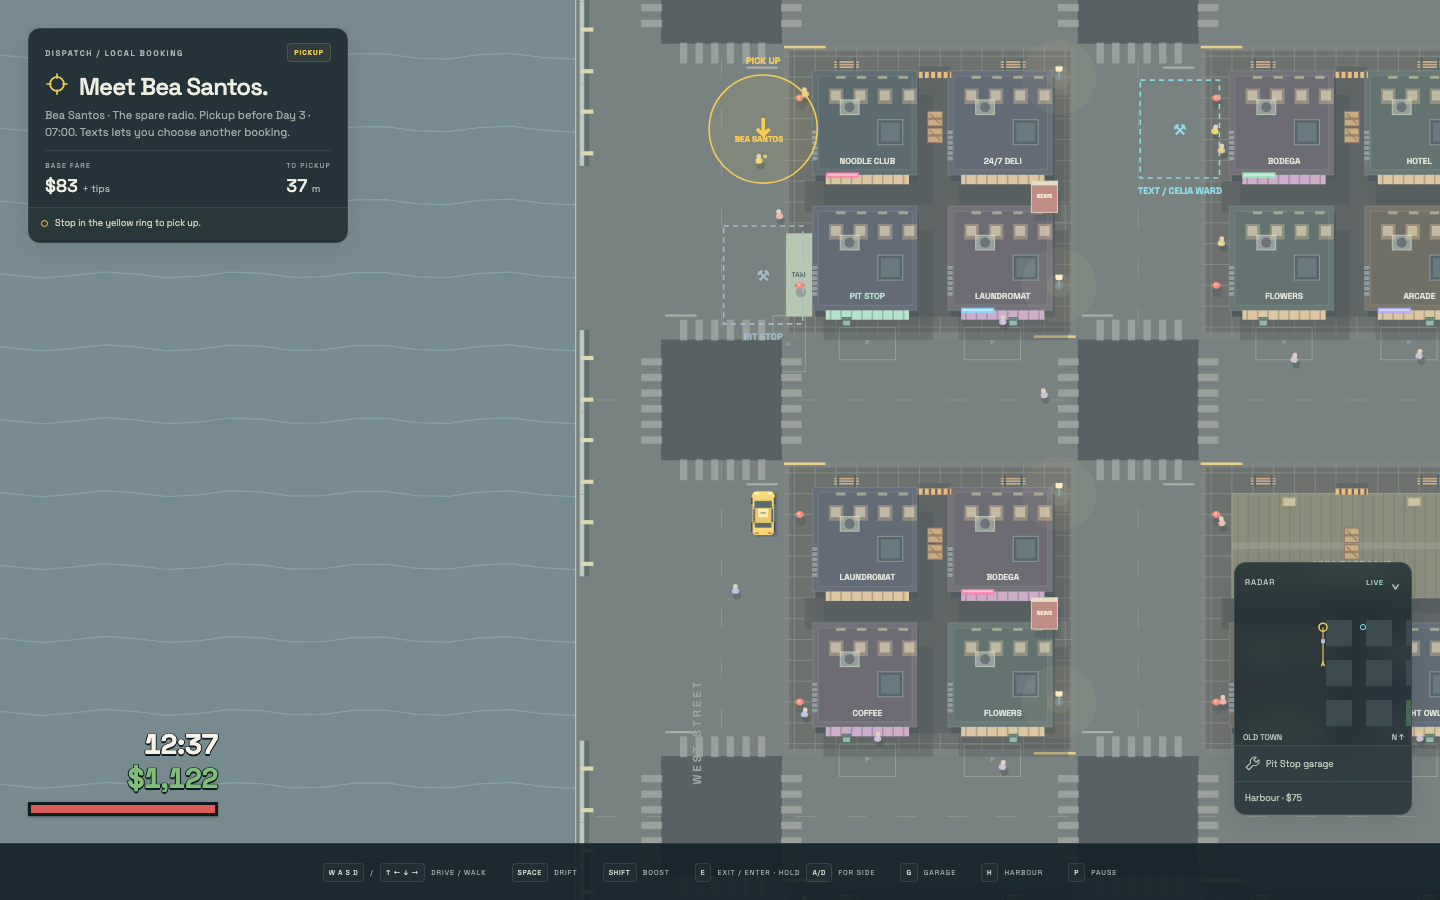
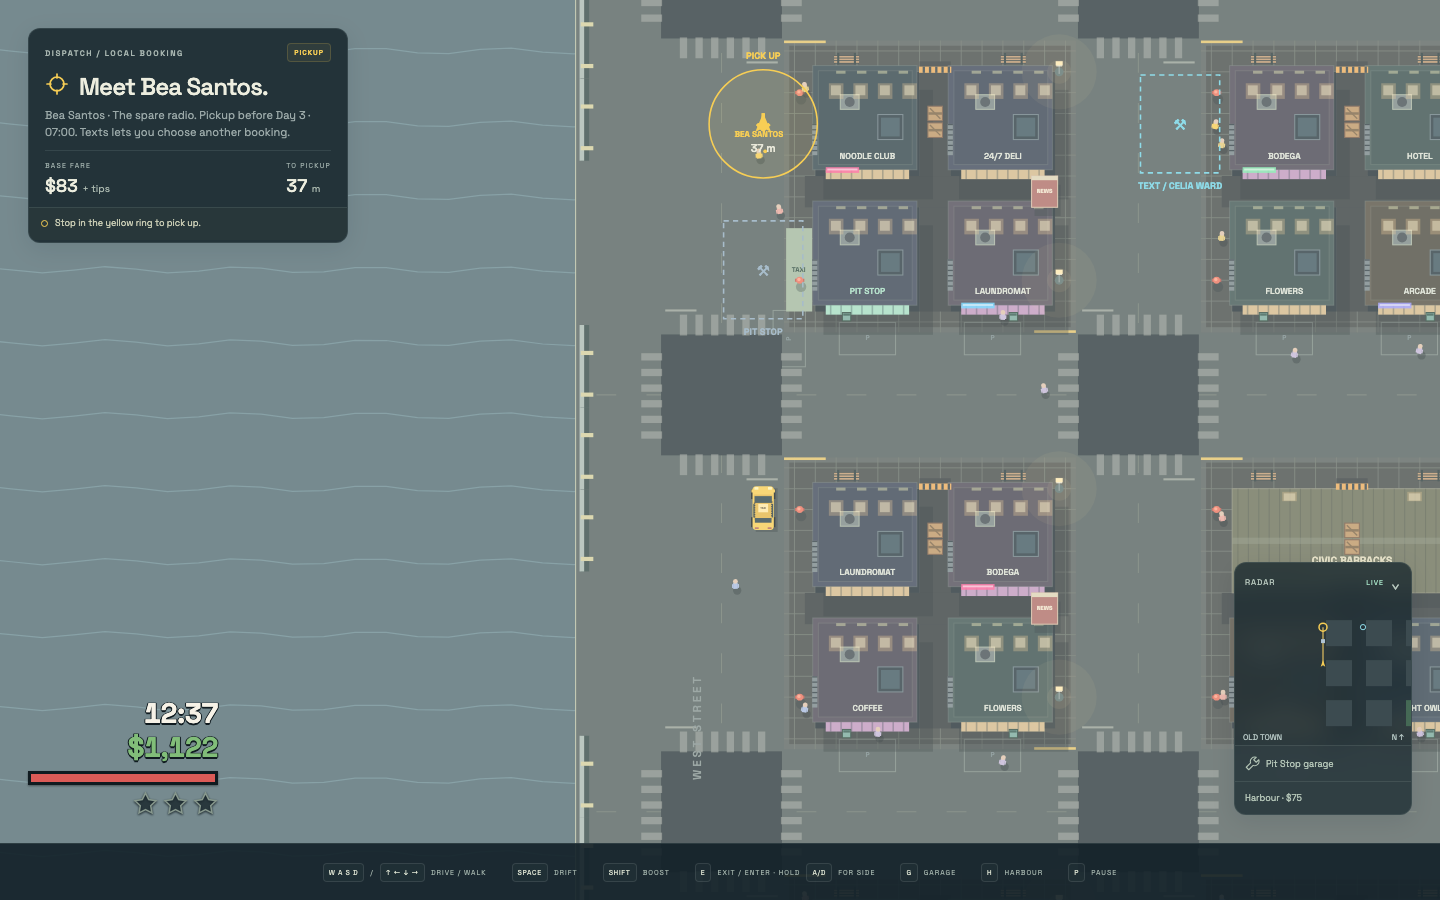
Show police attention as progressively filled HUD stars

diff --git a/src/player-hud.ts b/src/player-hud.ts
@@ -1,16 +1,32 @@
 import type { Game } from './game';
+import { wantedThresholds } from './rules';
+
+const starPath = 'M12 2 15.1 8.3 22 9.3 17 14.2 18.2 21 12 17.8 5.8 21 7 14.2 2 9.3 8.9 8.3Z';
+const starMarkup = wantedThresholds.map((_, index) => `<svg class="heat-star" viewBox="0 0 24 24" aria-hidden="true">
+  <defs><clipPath id="player-heat-clip-${index}"><rect x="2" y="0" width="0" height="24" /></clipPath></defs>
+  <path class="heat-star-empty" d="${starPath}" />
+  <path class="heat-star-fill" d="${starPath}" clip-path="url(#player-heat-clip-${index})" />
+</svg>`).join('');
 
 export const playerHudMarkup = `<section class="player-hud" aria-label="Player status">
   <time id="player-time" aria-label="Time of day">07:00</time>
   <strong id="player-cash" aria-label="Cash">$0</strong>
   <div id="player-health" class="player-health" role="meter" aria-label="Personal health" aria-valuemin="0" aria-valuemax="100" aria-valuenow="100"><i></i></div>
+  <div id="player-heat" class="player-heat" role="meter" aria-label="Police attention" aria-valuemin="0" aria-valuemax="100" aria-valuenow="0">${starMarkup}</div>
 </section>`;
 
-export function playerHudState(game: Pick<Game, 'dayNight' | 'save' | 'driverHealth'>) {
+export function playerHudState(game: Pick<Game, 'dayNight' | 'save' | 'driverHealth' | 'heat' | 'stars'>) {
+  const heat = Math.max(0, Math.min(100, game.heat));
   return {
     time: game.dayNight.snapshot().time,
     cash: `$${Math.floor(game.save.cash).toLocaleString('en-US')}`,
     health: Math.max(0, Math.min(100, game.driverHealth)),
+    heat,
+    stars: game.stars,
+    starFills: wantedThresholds.map((threshold, index) => {
+      const from = index === 0 ? 0 : wantedThresholds[index - 1];
+      return Math.max(0, Math.min(1, (heat - from) / (threshold - from)));
+    }),
   };
 }
 
@@ -20,6 +36,8 @@ export function bindPlayerHud(root: HTMLElement, currentGame: () => Game) {
   const cash = root.querySelector<HTMLElement>('#player-cash')!;
   const health = root.querySelector<HTMLElement>('#player-health')!;
   const fill = health.querySelector<HTMLElement>('i')!;
+  const heat = root.querySelector<HTMLElement>('#player-heat')!;
+  const starClips = Array.from(heat.querySelectorAll('clipPath rect'));
   return () => {
     const state = playerHudState(currentGame());
     time.textContent = state.time;
@@ -30,5 +48,8 @@ export function bindPlayerHud(root: HTMLElement, currentGame: () => Game) {
     fill.style.width = `${state.health}%`;
     health.setAttribute('aria-valuenow', String(state.health));
     health.setAttribute('aria-valuetext', `${Math.ceil(state.health)}%`);
+    state.starFills.forEach((amount, index) => starClips[index].setAttribute('width', String(amount * 20)));
+    heat.setAttribute('aria-valuenow', String(state.heat));
+    heat.setAttribute('aria-valuetext', `${state.stars} of 3 wanted stars; ${Math.round(state.heat)}% police attention`);
   };
 }

diff --git a/src/player-hud.test.ts b/src/player-hud.test.ts
@@ -3,12 +3,12 @@ import { Game } from './game';
 import { playerHudMarkup, playerHudState } from './player-hud';
 
 describe('minimal player HUD', () => {
-  it('shows only the time, wallet balance and personal health', () => {
+  it('shows the time, wallet balance, personal health and police attention', () => {
     const game = new Game(undefined, false);
     game.save.cash = 1122;
     game.shiftEarnings = 83;
-    expect(playerHudState(game)).toEqual({ time: '07:00', cash: '$1,122', health: 100 });
-    expect(playerHudMarkup).not.toMatch(/speed|boost|chassis|earnings|wanted|stars/i);
+    expect(playerHudState(game)).toEqual({ time: '07:00', cash: '$1,122', health: 100, heat: 0, stars: 0, starFills: [0, 0, 0] });
+    expect(playerHudMarkup).not.toMatch(/speed|boost|chassis|earnings/i);
   });
 
   it('does not substitute vehicle condition for personal health', () => {
@@ -40,5 +40,38 @@ describe('minimal player HUD', () => {
       game.driverHealth = health;
       expect(playerHudState(game).health).toBe(expected);
     }
+  });
+
+  it.each([
+    [0, [0, 0, 0], 0], [10, [0.5, 0, 0], 0], [20, [1, 0, 0], 1],
+    [34, [1, 0.5, 0], 1], [48, [1, 1, 0], 2], [62, [1, 1, 0.5], 2],
+    [76, [1, 1, 1], 3], [100, [1, 1, 1], 3],
+  ])('fills stars progressively at heat %s without changing wanted level', (heat, fills, stars) => {
+    const game = new Game(undefined, false);
+    game.heat = heat as number;
+    const state = playerHudState(game);
+    expect(state.starFills).toEqual(fills);
+    expect(state.stars).toBe(stars);
+  });
+
+  it('keeps the next star partial immediately before each wanted threshold', () => {
+    const game = new Game(undefined, false);
+    for (const [index, threshold] of [20, 48, 76].entries()) {
+      game.heat = threshold - 0.001;
+      const state = playerHudState(game);
+      expect(state.stars).toBe(index);
+      expect(state.starFills[index]).toBeLessThan(1);
+      expect(state.starFills[index]).toBeGreaterThan(0.99);
+    }
+  });
+
+  it('drains partial attention and clears every star when attention resets', () => {
+    const game = new Game(undefined, false);
+    game.heat = 100;
+    expect(playerHudState(game).starFills).toEqual([1, 1, 1]);
+    game.heat = 34;
+    expect(playerHudState(game).starFills).toEqual([1, 0.5, 0]);
+    game.heat = 0;
+    expect(playerHudState(game).starFills).toEqual([0, 0, 0]);
   });
 });

diff --git a/src/style.css b/src/style.css
@@ -20,13 +20,17 @@
 .mission-data strong{margin-top:4px;font-size:18px}
 .mission-footer{margin:0 -16px;padding:9px 12px}
 .job-progress{margin:0 -16px}
-/* Three readouts, no card: outlined type and a red personal-health bar. */
+/* Minimal status: outlined type, personal health and progressively filled stars. */
 .player-hud{position:fixed;z-index:1;left:28px;bottom:84px;width:190px;display:grid;justify-items:end;gap:4px;pointer-events:none;touch-action:none;font-weight:700;font-variant-numeric:tabular-nums;line-height:1.05;letter-spacing:-.7px}
 .player-hud time,.player-hud strong{font-size:min(28px,calc(280px / var(--cash-length,8)));font-weight:inherit;white-space:nowrap;-webkit-text-stroke:2px #101b20;paint-order:stroke fill;text-shadow:0 2px 0 #101b20,1px 0 0 #101b20,-1px 0 0 #101b20}
 .player-hud time{color:#f6f2e7}
 .player-hud strong{color:#81bd79}
 .player-health{width:100%;height:14px;margin-top:5px;border:3px solid #101b20;background:#252b2d;box-shadow:0 1px 2px #0006}
 .player-health i{display:block;width:100%;height:100%;background:#db5b57}
+.player-heat{display:flex;gap:5px;margin-top:2px}
+.player-heat .heat-star{width:25px;height:25px;filter:drop-shadow(0 1px 1px #101b20)}
+.heat-star-empty{fill:#14232a88;stroke:#87988d;stroke-width:1.5}
+.heat-star-fill{fill:var(--gold)}
 .map-panel{width:178px;background:#14232ac2}
 .map-toggle{display:flex;align-items:center;gap:7px;width:100%;min-height:38px;padding:0 10px;border:0;background:transparent;color:#b7c7bd;font-size:8px;letter-spacing:1px}
 .map-toggle #map-status{margin-left:auto;color:var(--mint);font-size:7px}
@@ -60,6 +64,8 @@
   .player-hud{bottom:var(--edge-bottom);left:var(--edge-left);width:var(--dash-width);gap:3px}
   .player-hud time,.player-hud strong{font-size:min(20px,calc(180px / var(--cash-length,8)))}
   .player-health{height:11px;margin-top:3px;border-width:2px}
+  .player-heat{gap:4px;margin-top:1px}
+  .player-heat .heat-star{width:20px;height:20px}
   .map-panel{top:calc(var(--top-height) + 87px);right:var(--edge-right);bottom:auto;left:auto;width:100px;border-radius:10px;background:#14232a99;backdrop-filter:blur(5px)}
   .map-toggle{min-height:36px;font-size:8px;padding:0 8px;letter-spacing:.5px;gap:4px}
   .map-toggle #map-status{display:none}

diff --git a/src/game.ts b/src/game.ts
@@ -1,7 +1,7 @@
 import { Body, CarDynamics, add, angleDiff, bodiesNear, clamp, contact, dist, dot, length, normalize, resolveCollision, rotate, scale, segmentIntersectsBody, sub, vec, type Controls, type Vec } from './physics';
 import { GARAGE, HOSPITAL, World, blocksWalking, isStructural, type Person, type Prop } from './world';
 import { createAI, driveNPC, type AIState } from './ai';
-import { defaultSettings, difficulties, type Difficulty, type Settings } from './rules';
+import { defaultSettings, difficulties, wantedThresholds, type Difficulty, type Settings } from './rules';
 import { blastDamage, createVehicleDamage, igniteVehicle, impactDamage, radialEffect, tickVehicleDamage, vehiclePerformance, type VehicleDamage } from './damage';
 import { killPedestrian, updatePedestrians } from './pedestrians';
 import { Effects } from './effects';
@@ -494,7 +494,7 @@ export class Game {
     const bail = Math.min(this.save.cash - impound, this.stars * 45);
     return { impound, bail, total: impound + bail };
   }
-  get stars() { return this.heat < 20 ? 0 : this.heat < 48 ? 1 : this.heat < 76 ? 2 : 3; }
+  get stars() { return this.heat < wantedThresholds[0] ? 0 : this.heat < wantedThresholds[1] ? 1 : this.heat < wantedThresholds[2] ? 2 : 3; }
   get police() { return this.vehicles.filter(v => v.kind === 'police' && v.alive && v.damage.status !== 'wreck'); }
   get policeVisible() { return this.police.some(v => dist(v.body.position, this.actor.position) < 70 && this.lineOfSight(v.body.position, this.actor.position)); }
   get exchangeCar() { return this.player.definition.access.playerDrivable && this.player.definition.physics.dynamics === 'car'; }

diff --git a/src/rules.ts b/src/rules.ts
@@ -1,3 +1,6 @@
+/** Completed HUD stars and police escalation share these heat boundaries. */
+export const wantedThresholds = Object.freeze([20, 48, 76] as const);
+
 export const difficulties = {
   cruise: { name: 'Cruise', copSpeed: 18, copEngine: 10500, maxPolice: 2, escapeTime: 6, arrestTime: 5, damageScale: 0.75, fireFuse: 9 },
   standard: { name: 'Street', copSpeed: 24, copEngine: 12500, maxPolice: 4, escapeTime: 8, arrestTime: 3.5, damageScale: 1, fireFuse: 7 },
